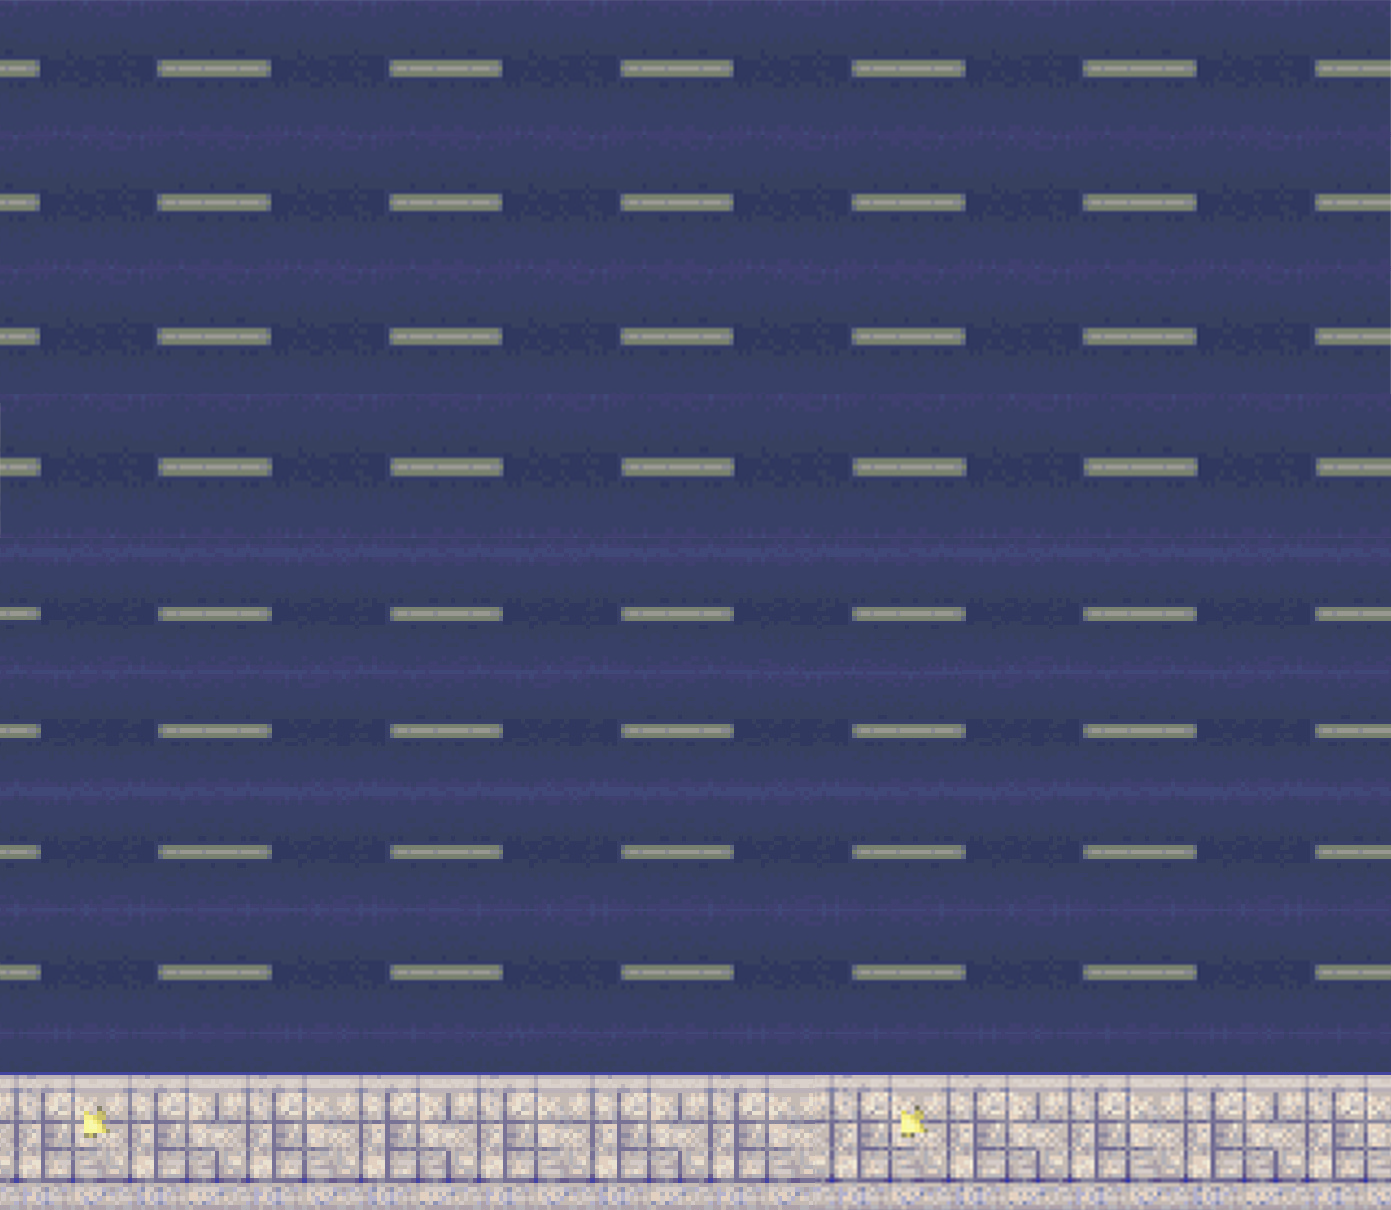
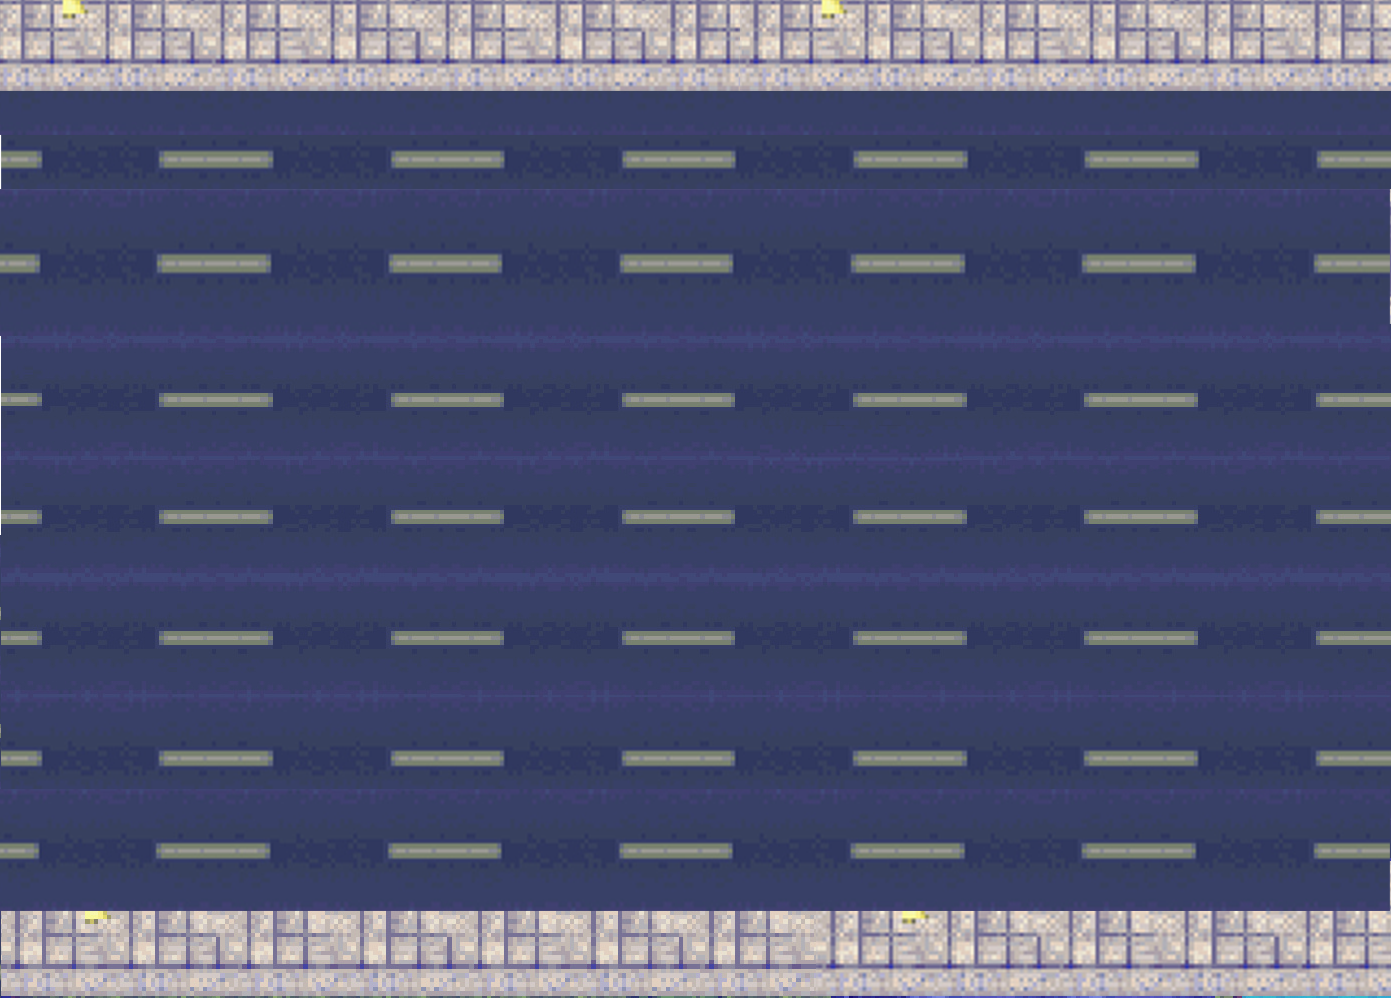
Agregación de nivel 2 mapa, nuevo vehiculos con enemigos, correcion de sonido grito, correciones y limpieza de codigo

diff --git a/index.html b/index.html
@@ -1,5 +1,6 @@
 <!DOCTYPE html>
 <html lang="en">
+
 <head>
     <meta charset="UTF-8">
     <meta name="viewport" content="width=device-width, initial-scale=1.0">
@@ -9,6 +10,7 @@
             font-family: "pricedown";
             src: url("pricedow.ttf") format("truetype");
         }
+
         body {
             margin: 0;
             overflow: hidden;
@@ -21,6 +23,7 @@
             background-repeat: no-repeat;
 
         }
+
         canvas {
             background-color: white;
             border-color: black;
@@ -71,6 +74,7 @@
             }
         };
 
+
         //HUD (Adorno)
         var hud = new Image();
         hud.src = "img/HUD.png";
@@ -80,7 +84,7 @@
         // Declaraciones generales o de otro usos
         var tx = 0, ty = 0;
         var moving = false;
-        var x = 516, y = 564, dir = 0, speed = 4;
+        var x = 516, y = 750, dir = 0, speed = 4;
         var currentRightSprite = 0;
         var animationInterval;
         var currentLeftSprite = 0;
@@ -118,7 +122,7 @@
                 playCarSound2();
             }
         });
-//
+        //
         // Variables para el uso de los sprite imágenes del jugador
         var playerSprites = {
             up: [new Image(), new Image()],
@@ -147,7 +151,7 @@
         playerSprites.stopLeft.src = "img/spriteParadoLeft.png";
         playerSprites.stopUp.src = "img/spriteParado.png"
         playerSprites.stopDown.src = "img/spriteParadoDown.png";
-        var gritoSound = new Audio("music/Grito.mp3");
+        var gritoSound = new Audio("music/Shout.mp3");
 
         // Declaraciones de variables para el uso de los sprite imágenes de los autos
         var auto = new Image();
@@ -158,24 +162,41 @@
         auto3.src = "img/autoIII.png";
         var auto4 = new Image();
         auto4.src = "img/autoIV.png";
+        var auto5 = new Image();
+        auto5.src = "img/autoV.png";
+        var auto6 = new Image();
+        auto6.src = "img/autoVI.png";
+        var auto7 = new Image();
+        auto7.src = "img/autoVII.png"
 
         var squareX = 0;
         var squareSpeed = 8;
         var squareSpeed2 = 12;
         var squareSpeed3 = 15;
+        var squareSpeed4 = 18;
+        var squareSpeed5 = 12;
+        var squareSpeed6 = 10;
+        var squareSpeed7 = 11;
         var canvasWidth = canvas.width;
-        var anchoAutoI = 190;
-        var altoAutoI = 80;
+        var anchoAuto = 190;
+        var altoAuto = 80;
 
         // Definición de valores de colisión para los autos
         var squareSize = 50;
         var positionAutoY = canvas.height / 1.90 - squareSize / 1.90;
-        var positionAutoY2 = canvas.height / 2.4 - altoAutoI / 2.4;
-        var positionAutoY3 = canvas.height / 3.4 - altoAutoI / 3.4;
-        var positionAutoY4 = canvas.height / 6 - altoAutoI / 6;
+        var positionAutoY2 = canvas.height / 2.4 - altoAuto / 2.4;
+        var positionAutoY3 = canvas.height / 3.4 - altoAuto / 3.4;
+        var positionAutoY4 = canvas.height / 6 - altoAuto / 6;
+        var positionAutoY5 = canvas.height / 1.50 - altoAuto / 1.50;
+        var positionAutoY6 = canvas.height / 1.30 - altoAuto / 1.30;
+        var positionAutoY7 = canvas.height / 1.10 - altoAuto / 1.10;
+
         var squareX2 = canvasWidth;
         var squareX3 = canvasWidth;
         var squareX4 = canvasWidth;
+        var squareX5 = canvasWidth;
+        var squareX6 = canvasWidth;
+        var squareX7 = canvasWidth;
 
         // Controles del jugador
         document.addEventListener("keydown", (e) => {
@@ -209,7 +230,7 @@
             currentLeftSprite = 0;
             currentDownSprite = 0;
             currentUpSprite = 0;
-
+            
             switch (e.keyCode) {
                 case 68:
                     dir = 6;
@@ -261,7 +282,7 @@
             ) {
                 console.log("Colisión con el objetivo (carro1)");
                 x = 516;
-                y = 564;
+                y = 750;
                 gritoSound.load();
                 gritoSound.play();
             }
@@ -274,7 +295,7 @@
             ) {
                 console.log("Colisión con el objetivo (carro2)");
                 x = 516;
-                y = 564;
+                y = 750;
                 gritoSound.load();
                 gritoSound.play();
             }
@@ -288,7 +309,7 @@
             ) {
                 console.log("Colisión con el objetivo (carro3)");
                 x = 516;
-                y = 564;
+                y = 750;
                 gritoSound.load();
                 gritoSound.play();
             }
@@ -301,10 +322,50 @@
             ) {
                 console.log("Colisión con el objetivo (carro4)");
                 x = 516;
-                y = 564;
+                y = 750;
                 gritoSound.load();
                 gritoSound.play();
             }
+            // Colisión con el objetivo (carro5)
+            if (
+                x < squareX5 + squareSize &&
+                x + 50 > squareX5 &&
+                y < positionAutoY5 + squareSize &&
+                y + 50 > positionAutoY5
+            ) {
+                console.log("Colisión con el objetivo (carro5)");
+                x = 516;
+                y = 750;
+                gritoSound.load();
+                gritoSound.play();
+            }
+            // Colisión con el objetivo (carro6)
+            if (
+                x < squareX6 + squareSize &&
+                x + 50 > squareX6 &&
+                y < positionAutoY6 + squareSize &&
+                y + 50 > positionAutoY6
+            ) {
+                console.log("Colisión con el objetivo (carro6)");
+                x = 516;
+                y = 750;
+                gritoSound.load();
+                gritoSound.play();
+            }
+            // Colisión con el objetivo (carro7)
+            if (
+                x < squareX7 + squareSize &&
+                x + 50 > squareX7 &&
+                y < positionAutoY7 + squareSize &&
+                y + 50 > positionAutoY7
+            ) {
+                console.log("Colisión con el objetivo (carro7)");
+                x = 516;
+                y = 750;
+                gritoSound.load();
+                gritoSound.play();
+            }
+            
             squareX += squareSpeed;
 
             if (squareX > canvasWidth) {
@@ -324,11 +385,11 @@
             window.requestAnimationFrame(update);
         }
 
-
-        // let nivel2Activado = false;
-
         var minutos = 0;
         var segundos = 0;
+        var estadoJuego = "normal";
+        var imagenFondo2 = new Image();
+
 
         function mostrarContador(minutos, segundos) {
             ctx.fillStyle = "#c1a679";
@@ -339,17 +400,31 @@
         }
 
         // Función para dibujar la escena y la pintura del juego
+
         function drawScene() {
             ctx.clearRect(0, 0, canvas.width, canvas.height);
-            ctx.drawImage(imagenFondo, 0, 0, canvas.width, canvas.height);
+
+            if (estadoJuego === "normal") {
+                ctx.drawImage(imagenFondo, 0, 0, canvas.width, canvas.height);
+            } else {
+                ctx.drawImage(imagenFondo2, 0, 0, canvas.width, canvas.height);
+                ctx.drawImage(auto5, squareX5, positionAutoY5, anchoAuto, altoAuto);
+                ctx.drawImage(auto6, squareX6, positionAutoY6, anchoAuto, altoAuto);
+                ctx.drawImage(auto7, squareX7, positionAutoY7, anchoAuto, altoAuto);
+
+                moveAuto5();
+                moveAuto6();
+                moveAuto7();
+            }
 
             ctx.drawImage(hud, 880, 0, 260, 105);
-            ctx.drawImage(radar, 40, 640, 180, 160)
+            ctx.drawImage(radar, 40, 640, 180, 160);
 
-            ctx.drawImage(auto, squareX, positionAutoY, anchoAutoI, altoAutoI);
-            ctx.drawImage(auto2, squareX2, positionAutoY2, anchoAutoI, altoAutoI);
-            ctx.drawImage(auto3, squareX3, positionAutoY3, anchoAutoI, altoAutoI);
-            ctx.drawImage(auto4, squareX4, positionAutoY4, anchoAutoI, altoAutoI)
+            ctx.drawImage(auto, squareX, positionAutoY, anchoAuto, altoAuto);
+            ctx.drawImage(auto2, squareX2, positionAutoY2, anchoAuto, altoAuto);
+            ctx.drawImage(auto3, squareX3, positionAutoY3, anchoAuto, altoAuto);
+            ctx.drawImage(auto4, squareX4, positionAutoY4, anchoAuto, altoAuto);
+
 
             switch (dir) {
                 case 1:
@@ -381,36 +456,69 @@
                     break;
             }
             mostrarContador(minutos, segundos);
-            // Prueba de codigo, esta comentado
-            // ctx.fillStyle = "red"; // Establece el color de relleno en rojo
-            // ctx.fillRect(100, 100, 50, 50);
 
-            // if (x > 100 && x < 150 && y > 100 && y < 150) {
-            //     window.location.href = "index2.html";
-            // }
+            ctx.fillStyle = "red"; // prueba 
+            ctx.fillRect(555, 25, 50, 50);
+
+            if (x > 555 && x < 605 && y > 25 && y < 75) {
+
+                estadoJuego = "colision";
+
+                imagenFondo2.src = "img/map2.png";
+
+                x = 516;
+                y = 750;
+                squareSpeed *= 2;
+                squareSpeed2 *= 1.8;
+                squareSpeed3 *= 2.2;
+                squareSpeed6 *= 2.3;
+
+            }
         }
 
-        //Funciones para mover el objeto de los carros izquierda a derecha
         function moveAuto2() {
-            squareX2 -= squareSpeed;
-            if (squareX2 + anchoAutoI < 0) {
+            squareX2 -= squareSpeed2;
+            if (squareX2 + anchoAuto < 0) {
                 squareX2 = canvasWidth;
             }
         }
 
         function moveAuto3() {
-            squareX3 += squareSpeed2;
+            squareX3 += squareSpeed3;
             if (squareX3 > canvas.width) {
-                squareX3 = -anchoAutoI;
+                squareX3 = -anchoAuto;
             }
         }
 
         function moveAuto4() {
-            squareX4 -= squareSpeed3;
-            if (squareX4 + anchoAutoI < 0) {
+            squareX4 -= squareSpeed4;
+            if (squareX4 + anchoAuto < 0) {
                 squareX4 = canvasWidth;
             }
         }
+
+        function moveAuto5() {
+            squareX5 += squareSpeed5; 
+            if (squareX5 > canvasWidth) {
+                squareX5 = -anchoAuto; 
+            }
+        }
+
+        function moveAuto6() {
+            squareX6 -= squareSpeed6;
+            if (squareX6 + anchoAuto < 0) {
+                squareX6 = canvasWidth;
+            }
+        }
+
+        function moveAuto7() {
+            squareX7 += squareSpeed7; 
+            if (squareX7 > canvasWidth) {
+                squareX7 = -anchoAuto; 
+            }
+        }
+       
+        
     </script>
 </body>
 </html>
